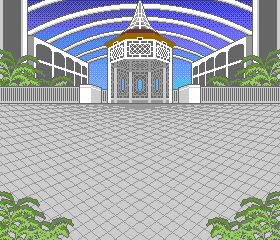
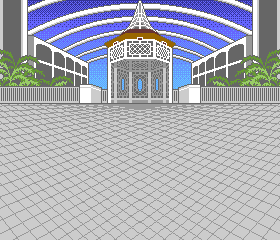
Add new atrium assets and multi-page background logic
added backgrounds, tested some scene scrolling stuff in atrium mode, tested cards

Changed region(s): [[0.7429, 0.7583, 1.0, 1.0], [0.0, 0.7583, 0.2571, 1.0]]

diff --git a/main/modes/games/atrium/atrium.c b/main/modes/games/atrium/atrium.c
@@ -45,6 +45,7 @@ typedef enum
 } atriumState;
 
 atriumState state = 0;
+int loader = 0;
 
 typedef enum
 {
@@ -69,6 +70,8 @@ typedef enum
 
 sonaSelect selection = 0;
 int ticker = 0;
+int PAGE = 0;
+int planter = 0;
 
 //wsgs, fonts, etc
 
@@ -77,9 +80,16 @@ int ticker = 0;
 typedef struct
 {
     wsg_t gazebo;
+    wsg_t plant1;
+    wsg_t plant2;
+    wsg_t arcade1;
+    wsg_t arcade2;
+    wsg_t concert1;
+    wsg_t concert2;
 } backgrounds_t;
 
 backgrounds_t* bgs;
+const wsg_t* bgsArray[sizeof(backgrounds_t)];
 
 //bodies 
 typedef struct 
@@ -123,10 +133,9 @@ cards_t* cards;
 const wsg_t* cardsArray[sizeof(cards_t)];
 
 int testercardselect = 0; //for testing card selection, 0-6
-
-int card_coords_x[] = {24, 99, 208};
-int card_coords_y[] = {24, 112};
-int cardpadding = 4; //padding for text written in card
+int card_coords_x[] = {24, 99, 208}; 
+int card_coords_y[] = {24+12, 112+12}; //needs testing, original location at 24,112 was too high on screen and clipping into radius
+int cardpadding = 4; //padding for text written in card, in px
 int textbox1width = 156;
 int textbox2width = 172;
 
@@ -134,8 +143,10 @@ int textbox2width = 172;
 //buttons
 typedef struct 
 {
-
+    wsg_t arrow;
 } butts_t; //haha
+
+butts_t* butts;
 
 
 //misc head sprites for testing
@@ -146,19 +157,30 @@ typedef struct
    wsg_t num1;
    wsg_t num2;
    wsg_t pomp;
-   wsg_t thurs;
+   wsg_t num3;
    wsg_t cow;
    wsg_t trophy;
-
-   midiFile_t bgm;          // BGM
 } misc_t;
 
 misc_t* misc;
+const wsg_t* miscArray[sizeof(misc_t)];
+
+//midis
+
+typedef struct 
+{
+   midiFile_t bgm;          
+ } amidi_t;
+
+
+
+amidi_t* amidi;
+const midiFile_t* midiArray[sizeof(amidi_t)];
 
 buttonEvt_t evt;
 
 //sona locations in plaza mode
-        int x_coords[] = {5, 74, 143, 212};
+        int x_coords[] = {5+6, 74+3, 143-3, 212-6};
         int y_coords[] = {120, 80}; 
         int headoffset = 48; 
 
@@ -170,7 +192,7 @@ list_t spList = {0};
     const trophyData_t atriumTrophies[] = {
         {
             .title       = "Welcome to the Atrium",
-            .description = "Visit the Gazebo",
+            .description = "We've got music and games",
             .image       = NO_IMAGE_SET,
             .type        = TROPHY_TYPE_TRIGGER,
             .difficulty  = TROPHY_DIFF_EASY,
@@ -199,17 +221,31 @@ static void atriumEnterMode()
     bods = (bodies_t*)heap_caps_calloc(1, sizeof(bodies_t), MALLOC_CAP_8BIT);
     misc = (misc_t*)heap_caps_calloc(1, sizeof(misc_t), MALLOC_CAP_8BIT);
     cards = (cards_t*)heap_caps_calloc(1, sizeof(cards_t), MALLOC_CAP_8BIT);
+    amidi = (amidi_t*)heap_caps_calloc(1, sizeof(amidi_t), MALLOC_CAP_8BIT);
+    butts = (butts_t*)heap_caps_calloc(1, sizeof(butts_t), MALLOC_CAP_8BIT);
+    //Dear emily, you need to do this for every struct. love, past you.    
     getSwadgePasses(&spList, &atriumMode, true);
+
     loadWsg(GAZEBO_WSG, &bgs->gazebo, true);
+    loadWsg(ATRIUMPLANT_1_WSG, &bgs->plant1, true);
+    loadWsg(ATRIUMPLANT_2_WSG, &bgs->plant2, true);
+    loadWsg(ARCADE_1_WSG, &bgs->arcade1, true);
+    loadWsg(ARCADE_2_WSG, &bgs->arcade2, true); 
+    loadWsg(CONCERT_1_WSG, &bgs->concert1, true);
+    loadWsg(CONCERT_2_WSG, &bgs->concert2, true);         
 
     //when its ready, I need to add sona data extraction from swadgepass packet, for now I am just hardcoding some sonas in to use:
     loadWsg(BALD_WSG, &misc->bald, true);
     loadWsg(MAINCHAR_WSG, &misc->mainc, true);
     loadWsg(NUM_1_WSG, &misc->num1, true);
     loadWsg(NUM_2_WSG, &misc->num2, true);
-    loadWsg(THURSDAY_WSG, &misc->thurs, true);
+    loadWsg(NUM_3_WSG, &misc->num3, true);
     loadWsg(POMP_WSG, &misc->pomp, true);
     loadWsg(COW_WSG, &misc->cow, true);
+
+    printf("loaded misc wsgs!\n");
+
+    //test animations for sonas - dance only for now
     loadWsg(DANCEBODY_1_WSG, &bods->d1, true);
     loadWsg(DANCEBODY_2_WSG, &bods->d2, true);
     loadWsg(DANCEBODY_3_WSG, &bods->d3, true);
@@ -220,15 +256,11 @@ static void atriumEnterMode()
     loadWsg(DANCEBODY_8_WSG, &bods->d8, true);
     loadWsg(DANCEBODY_9_WSG, &bods->d9, true);
     loadWsg(DANCEBODY_10_WSG, &bods->d10, true);
-    loadWsg(CARDBLOSS_WSG, &cards->card1, true);
-    loadWsg(CARDBUBB_WSG, &cards->card2, true);
-    loadWsg(CARDDINO_WSG, &cards->card3, true);
-    loadWsg(CARDGEN_WSG, &cards->card4, true); 
-    loadWsg(CARDMAGFEST_WSG, &cards->card5, true);
-    loadWsg(CARDMUSIC_WSG, &cards->card6, true);
-    loadWsg(CARDSPACE_WSG, &cards->card7, true);
-    loadWsg(WINGED_TROPHY_WSG, &misc->trophy, true);
+
+    loadWsg(ARROW_18_WSG, &butts->arrow, true);
+
     
+    printf("loaded profile wsgs!\n");
 
     bodsArray[0] = &bods->d1;
     bodsArray[1] = &bods->d2;
@@ -249,32 +281,42 @@ static void atriumEnterMode()
     cardsArray[5] = &cards->card6;  
     cardsArray[6] = &cards->card7;  
 
- 
+    miscArray[0] = &misc->bald;
+    miscArray[1] = &misc->mainc;
+    miscArray[2] = &misc->num1;
+    miscArray[3] = &misc->num2;
+    miscArray[4] = &misc->pomp;
+    miscArray[5] = &misc->num3;
+    miscArray[6] = &misc->cow;
+    miscArray[7] = &misc->trophy;
+
+    bgsArray[0] = &bgs->gazebo;
+    bgsArray[1] = &bgs->concert1;    
+    bgsArray[2] = &bgs->arcade1;
 
 
-    //bgm
-midiFile_t bgm;
 
-loadMidiFile(YALIKEJAZZ_MID, &misc->bgm, true);
+loadMidiFile(YALIKEJAZZ_MID, &amidi->bgm, true);
+    printf("loaded midi file!\n");
 
 midiPlayer_t* player = globalMidiPlayerGet(MIDI_BGM);
 player -> loop = true;
 midiGmOn(player);
-globalMidiPlayerPlaySong(&misc->bgm, MIDI_BGM);
+globalMidiPlayerPlaySong(&amidi->bgm, MIDI_BGM);
 globalMidiPlayerSetVolume(MIDI_BGM, 12);
     trophyUpdate(atriumTrophies[0], 1, 1); //trigger the trophy for entering the atrium
+    printf("Entered Atrium Mode!\n");
+     atriumTitle(); //draw the title screen
    };
 
 static void atriumExitMode()
 {
     freeWsg(&bgs->gazebo);
-        freeWsg(&misc->bald);
-        freeWsg(&misc->mainc);
-        freeWsg(&misc->num1);
-        freeWsg(&misc->cow);
+
 
         for (int i = 0; i < 10; i++) {
             freeWsg(bodsArray[i]);
+            //freeWsg(miscArray[i]);
         }
 
     heap_caps_free(bgs);
@@ -284,8 +326,8 @@ static void atriumExitMode()
     freeSwadgePasses(&spList);	
 
     globalMidiPlayerStop(MIDI_BGM);
-    unloadMidiFile(&misc->bgm);
-    atriumTitle(); //draw the title screen
+    unloadMidiFile(&amidi->bgm);
+   
 };
 
 static void atriumMainLoop(int64_t elapsedUs)
@@ -304,7 +346,7 @@ if(state == ATR_TITLE) {
             }
             else if ((evt.button & PB_B))
             {
-                state = ATR_PROFILE; //if B is pressed, go to profile view}
+                state = ATR_PROFILE; //if B is pressed, go to profile view
             }
             else 
             {
@@ -316,8 +358,7 @@ if(state == ATR_TITLE) {
 }
 if (state == ATR_ATR) //if the state is atrium
         {
-            sonaIdle(); //draw the sonas
-            drawText(getSysFont(), c000, "Page 1 of 1", 100, 200);
+            sonaIdle();
         }
 else if (state == ATR_PROFILE) //if the state is title screen
         {
@@ -330,8 +371,6 @@ else if (state == ATR_PROFILE) //if the state is title screen
 
 
 void sonaDraw() {
-
-drawWsgSimple(&bgs->gazebo, 0, 0);
 
 //tester to see if the sonas show up right. up to 4 sonas drawn on the screen at one time. eventually, random swadgesona lines shall be selected to draw. in this tester, random hardcoded sonas are drawn in the required positions.
 
@@ -369,13 +408,33 @@ drawWsgSimple(&bgs->gazebo, 0, 0);
 };
 
 void sonaIdle() {
+drawWsgSimple(bgsArray[PAGE], 0, 0); //draw the background based on page
+if (PAGE == 0 || PAGE == 1) {
+    drawWsg(&butts->arrow, 260, 40, false, false, 90); //draw right arrow
+}
+if (PAGE == 1 || PAGE == 2) {
+    drawWsg(&butts->arrow, 20, 40, true, false, 270); //draw left arrow
+}
+
 
 sonaDraw();
-    drawText(getSysFont(), c000, "Press B to return to menu", 48, 216); //draw the text for selecting a card
+
+if((PAGE == 0) & (planter <= 48)){ //if on page 0, draw the plants rising up
+    drawWsgSimple(&bgs->plant1, 0, 240-planter); //draw plant 1 rising into view
+    drawWsgSimple(&bgs->plant2, 168, 240-planter); //draw plant 2 rising into view
+    planter++;
+    }
+    else if( (PAGE == 0) & (planter >48) ){ //if on page 0, draw the plants normally
+    drawWsgSimple(&bgs->plant1, 0, 240-48); //draw plant 1
+    drawWsgSimple(&bgs->plant2, 168, 240-48); //draw plant 2
+    }
+
+
+drawText(getSysFont(), c000, "Press B to return to menu", 48, 216); //draw the text for selecting a card
 
 while (checkButtonQueueWrapper(&evt))
     {
-        if (evt.down) //if the button is pressed down on the title screen
+        if (evt.down) //if the button is pressed
 
         {
             if ((evt.button & PB_A))
@@ -386,8 +445,25 @@ while (checkButtonQueueWrapper(&evt))
             {
                 state = ATR_TITLE; //if B is pressed, go to profile view}
             }
-            else 
+            else if ((evt.button & PB_RIGHT))
             {
+                if (PAGE < 2){
+                PAGE++;//next page
+                if (PAGE == 0){
+                    planter = 0; //reset the planter so it can rise again
+                }
+                            }
+            }
+            else if ((evt.button & PB_LEFT))
+            {
+                if (PAGE > 0){
+                PAGE--;//previous page
+                if (PAGE == 0){
+                    planter = 0; //reset the planter so it can rise again
+                }
+                }
+            }
+            else {
 
             }
 
@@ -479,7 +555,21 @@ void atriumTitle() {
 
 void viewProfile() {
 
-    //draw the card info
+    if(loader == 0){
+    //WSG for profile mode only
+    loadWsg(CARDBLOSS_WSG, &cards->card1, true);
+    loadWsg(CARDBUBB_WSG, &cards->card2, true);
+    loadWsg(CARDDINO_WSG, &cards->card3, true);
+    loadWsg(CARDGEN_WSG, &cards->card4, true); 
+    loadWsg(CARDMAGFEST_WSG, &cards->card5, true);
+    loadWsg(CARDMUSIC_WSG, &cards->card6, true);
+    loadWsg(CARDSPACE_WSG, &cards->card7, true);
+    loadWsg(WINGED_TROPHY_WSG, &misc->trophy, true);
+
+    loader = 1;
+    }
+
+
         while (checkButtonQueueWrapper(&evt))
     {
         if (evt.down) //if the button is pressed down on the title screen
@@ -491,7 +581,12 @@ void viewProfile() {
             }
             else if ((evt.button & PB_B))
             {
-                state = ATR_TITLE; //if B is pressed, go to profile view}
+                state = ATR_TITLE; //if B is pressed, go back to title view
+                loader = 0; //reset the loader so the card wsgs are freed and reloaded next time
+                for(int i = 0; i <= 6; i++) {
+                    freeWsg(cardsArray[i]);
+                    printf("freed card wsg %d\n", i);
+                    }
             }
             else 
             {
@@ -500,13 +595,15 @@ void viewProfile() {
 
         }
     }
+
+//draw the card info
     drawWsgSimple(&bgs->gazebo, 0, 0);
-    drawWsgSimple(cardsArray[testercardselect], 0, 0); //draw the next card
-    drawWsgSimple(&misc->bald, card_coords_x[0], card_coords_y[0]); //draw the sona head
+    drawWsgSimple(cardsArray[testercardselect], 0, 0+12); //draw the next card
+    drawWsgSimple(miscArray[testercardselect], card_coords_x[0], card_coords_y[0]); //draw the sona head
     drawText(getSysFont(), c030, "Magfester69420", card_coords_x[1] + cardpadding, card_coords_y[0] + cardpadding); //draw the name
-    drawText(getSysFont(), c000, "Sandwich: Hot Dog", card_coords_x[1] + cardpadding, card_coords_y[0] + cardpadding+12); //draw the sandwich info
-    drawText(getSysFont(), c000, "I am a: Cosplayer", card_coords_x[1] + cardpadding, card_coords_y[0] + cardpadding+24); //draw the identity
-    drawText(getSysFont(), c000, "Class: Bard", card_coords_x[1] + cardpadding, card_coords_y[0] + cardpadding+36); //draw the identity info
+    drawText(getSysFont(), c000, "Sandwich: Hot Dog", card_coords_x[1] + cardpadding, card_coords_y[0] + cardpadding+12+4); //draw the sandwich info, needs extra padding to be balanced correctly
+    drawText(getSysFont(), c000, "I am a: Cosplayer", card_coords_x[1] + cardpadding, card_coords_y[0] + cardpadding+24+4); //draw the identity, needs extra padding to be balanced correctly
+    drawText(getSysFont(), c000, "Class: Bard", card_coords_x[1] + cardpadding, card_coords_y[0] + cardpadding+36+4); //draw the identity info
     drawText(getSysFont(), c000, "Hello World!", card_coords_x[0] + cardpadding, card_coords_y[1] + cardpadding); //draw the second text box info
     drawText(getSysFont(), c000, "This is 22 characters.", card_coords_x[0] + cardpadding, card_coords_y[1] + cardpadding+12); //draw the second text box info
     drawText(getSysFont(), c000, "Magfest is a: Donut", card_coords_x[0] + cardpadding, card_coords_y[1] + cardpadding+24); //draw the second text box info
